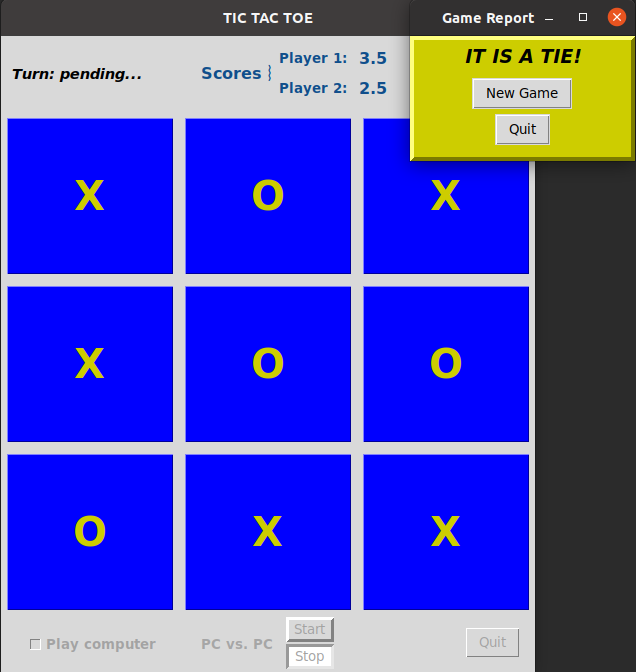
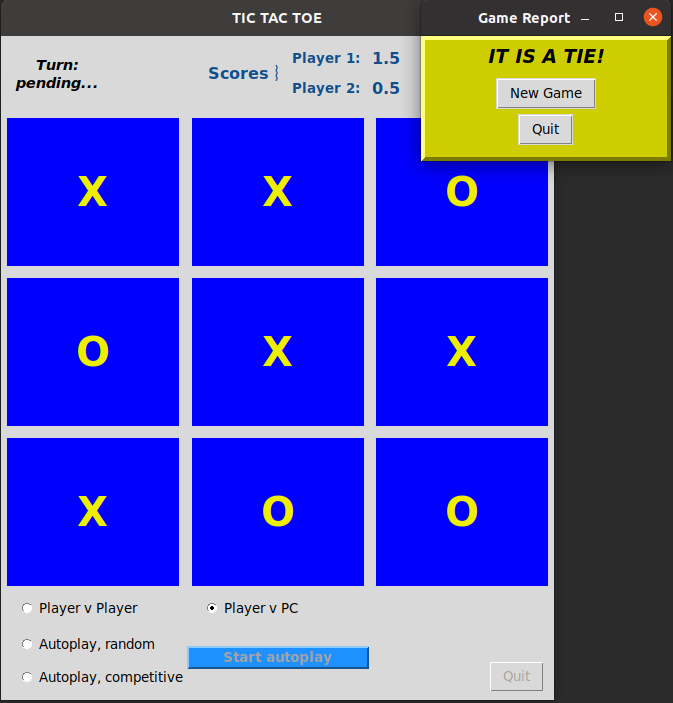
update README.md

diff --git a/README.md b/README.md
@@ -25,22 +25,23 @@ Start of a game in Player vs. Player mode, waiting for Player 1's first move:
 
 ![game-board](images/game_window.png)
 
-Player 1 won after 5 turns:
+Player 1 won first game:
 
 ![player1-win](images/player_v_player.png)
 
-Player vs Player, tie game awards a half point to each player:
+Player 2 tied the second game; a half point was awarded to each player:
 
 ![tie-game](images/tie_game.png)
 
-Player vs. PC mode, PC won second game:
+In Autoplay mode (computer vs computer), 1000 turns are played. Scores are updated in realtime through the series of about 120 to 140 games.
 
-![pc-win](images/player_v_pc.png)
+Popup windows announce user selection errors:
 
-Autoplay mode. Continuous PC v PC play for ~240 games (starting with 2000 total turns),
-PC Player 2 (O) just won:
+![mode_error](images/autoplay_mode_err.png)
 
-![pc-win](images/auto_play.png)
+and asks for confirmation:
+
+![confirm](images/confirm_quit.png)
 
 ### Known Issues
 Waiting for feedback...
